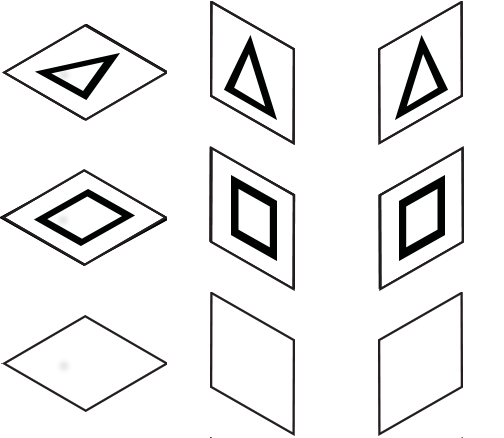
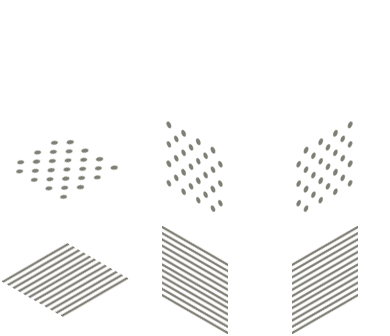
new piece art integrated
- updated scale factor & offsets for pieces
- fixed a crash that would occur if the player was able to accidentally
select a completed cube

diff --git a/Crystallography/Crystallography/SelectionGroup.cs b/Crystallography/Crystallography/SelectionGroup.cs
@@ -365,13 +365,13 @@ namespace Crystallography
 				_pucks[i].StopActionByTag( 1 );
 			}
 			Sequence sequence = new Sequence(){ Tag=1 };
-			sequence.Add( new MoveTo( new Vector2(0.5f, 10.0f+EASE_DISTANCE), 0.2f)
+			sequence.Add( new MoveTo( new Vector2(0.5f, 30.0f+EASE_DISTANCE), 0.2f)
 			            { Tween = Sce.PlayStation.HighLevel.GameEngine2D.Base.Math.Linear} );
 			_pucks[0].RunAction( sequence );
 			
 			sequence = new Sequence(){ Tag=1 };
 			if ( typeof(CardCrystallonEntity).IsAssignableFrom(this.MemberType) ) {
-				sequence.Add( new MoveTo( new Vector2(-EASE_DISTANCE-10.0f, 20.5f), 0.2f)
+				sequence.Add( new MoveTo( new Vector2(-EASE_DISTANCE-30.0f, 20.5f), 0.2f)
 				            { Tween = Sce.PlayStation.HighLevel.GameEngine2D.Base.Math.Linear} );
 			} else {
 				sequence.Add( new MoveTo( new Vector2(-EASE_DISTANCE, EASE_DISTANCE + 40.5f), 0.2f)
@@ -381,7 +381,7 @@ namespace Crystallography
 			
 			sequence = new Sequence(){ Tag=1 };
 			if ( typeof (CardCrystallonEntity).IsAssignableFrom(this.MemberType) ) {
-				sequence.Add( new MoveTo( new Vector2(EASE_DISTANCE+10.0f, 20.5f), 0.2f)
+				sequence.Add( new MoveTo( new Vector2(EASE_DISTANCE+30.0f, 20.5f), 0.2f)
 			           	 	{ Tween = Sce.PlayStation.HighLevel.GameEngine2D.Base.Math.Linear} );
 			} else {
 				sequence.Add( new MoveTo( new Vector2(EASE_DISTANCE, EASE_DISTANCE + 40.5f), 0.2f)

diff --git a/Crystallography/Crystallography/CardCrystallonEntity.cs b/Crystallography/Crystallography/CardCrystallonEntity.cs
@@ -9,13 +9,13 @@ namespace Crystallography
 {
 	public class CardCrystallonEntity : SpriteTileCrystallonEntity
     {
-		static readonly float CARD_SCALAR = 0.7f;
+		static readonly float CARD_SCALAR = 1.0f;
 		/// <summary>
 		/// Offsets used by different pieces to form a cube.
 		/// </summary>
-		static readonly Vector2[] POSITION_OFFSETS = { 	new Vector2(0f,39.0f*CARD_SCALAR),
-														new Vector2(-40.5f*CARD_SCALAR,-31.5f*CARD_SCALAR),
-														new Vector2(40.5f*CARD_SCALAR,-31.5f*CARD_SCALAR) };
+		static readonly Vector2[] POSITION_OFFSETS = { 	new Vector2(0f,29.0f*CARD_SCALAR),
+														new Vector2(-33.0f*CARD_SCALAR,-26.5f*CARD_SCALAR),
+														new Vector2(33.0f*CARD_SCALAR,-26.5f*CARD_SCALAR) };
 		public readonly static float DEFAULT_SPEED = 0.3f;
 		
 		protected SpriteTile _anim;

diff --git a/Crystallography/Crystallography/CubeCrystallonEntity.cs b/Crystallography/Crystallography/CubeCrystallonEntity.cs
@@ -168,6 +168,11 @@ namespace Crystallography
 			// DO NOTHING.
 		}
 		
+		public override bool CanBeAddedTo (GroupCrystallonEntity pGroup)
+		{
+			return false;
+		}
+		
 		public override void Update (float dt)
 		{
 			base.Update(dt);
